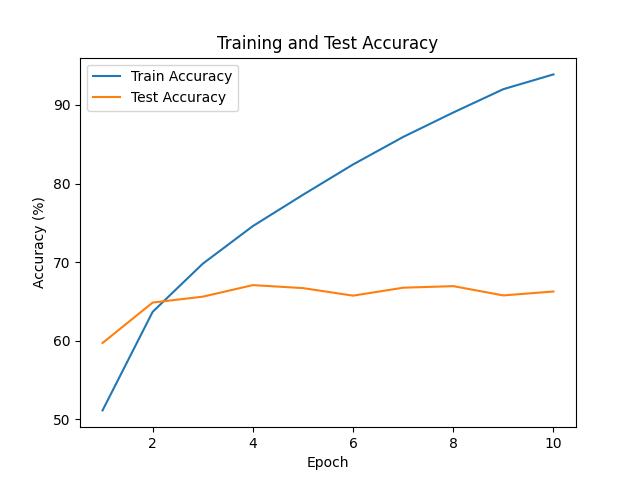
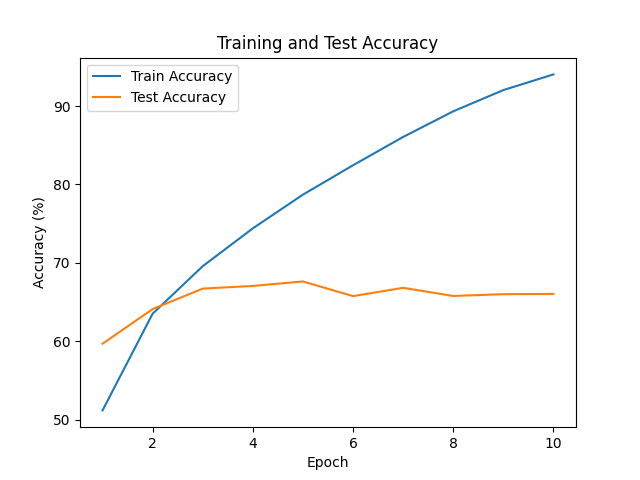
second

diff --git a/assignment2/README.md b/assignment2/README.md
@@ -11,7 +11,7 @@ and served as a REST API with **FastAPI**.
 ![PyTorch](https://img.shields.io/badge/PyTorch-CNN-EE4C2C?logo=pytorch&logoColor=white)
 ![FastAPI](https://img.shields.io/badge/FastAPI-Serving-009688?logo=fastapi&logoColor=white)
 ![Docker](https://img.shields.io/badge/Docker-Ready-2496ED?logo=docker&logoColor=white)
-![Accuracy](https://img.shields.io/badge/Best%20Test%20Accuracy-67.08%25-success)
+![Accuracy](https://img.shields.io/badge/Best%20Test%20Accuracy-67.62%25-success)
 
 **Classes:** `airplane` · `automobile` · `bird` · `cat` · `deer` · `dog` · `frog` · `horse` · `ship` · `truck`
 
@@ -188,15 +188,27 @@ http://127.0.0.1:8000/docs
 
 ## Results
 
+Trained for 10 epochs (Adam, `lr = 0.001`, batch size 64). The best checkpoint is selected
+by highest test accuracy and saved to `models/best_model.pth`.
+
 | Metric | Value |
 |--------|-------|
 | Total epochs | 10 |
-| Best epoch | 4 |
-| Best test accuracy | **67.08%** |
-| Final test accuracy | 66.27% |
-| Final train accuracy | 93.89% |
+| Best epoch | 5 |
+| Best test accuracy | **67.62%** |
+| Final train accuracy | 94.04% |
+| Final test accuracy | 66.03% |
+| Final train loss | 0.1752 |
+| Final test loss | 1.6475 |
+
+The curves below show clear **overfitting**: train accuracy keeps climbing toward ~94% while
+test accuracy plateaus around 66–68%, and the test loss starts rising after epoch 5 even as
+train loss keeps dropping. This is expected for a small 2-conv network without regularization —
+adding dropout, weight decay, or data augmentation would help close the gap.
 
 <div align="center">
+
+<img src="results/accuracy_curve.png" alt="Training and test accuracy curve" width="520" />
 
 <img src="results/loss_curve.png" alt="Training and test loss curve" width="520" />
 

diff --git a/assignment1/README.md b/assignment1/README.md
@@ -93,7 +93,7 @@ uv sync
 ### 3. Start the FastAPI Server
 
 ```bash
-uv run fastapi dev assignment1/main.py
+uv run fastapi dev assignment1/train.py
 ```
 
 After the server starts, open: